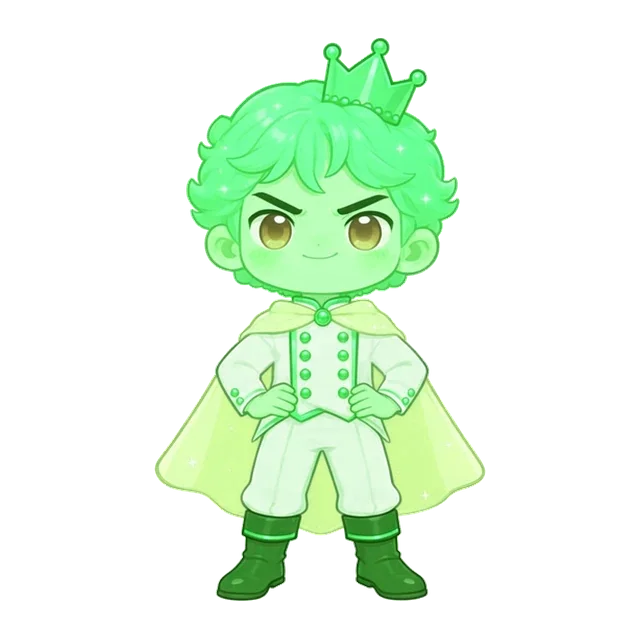
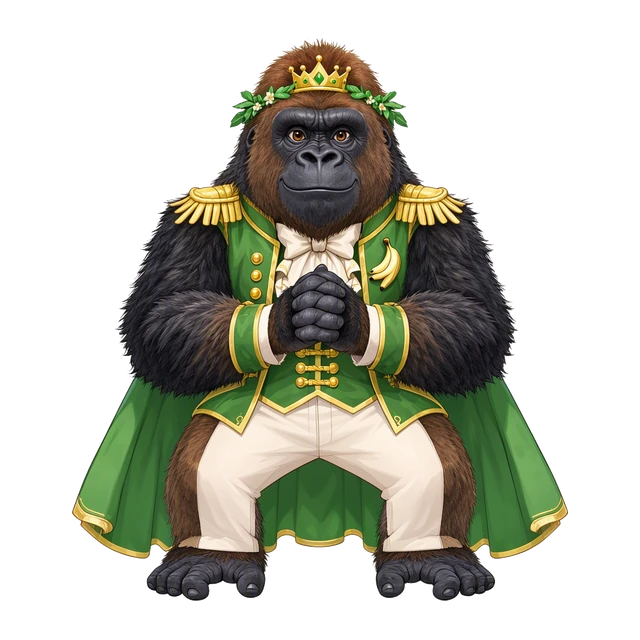
ゴリラの プリンスの 絵を 本番の 絵に さしかえ（idle/happy/oops は 同じ 1まい）

diff --git a/docs/gorilla-character.md b/docs/gorilla-character.md
@@ -18,6 +18,6 @@
 | `src/art/chars/gorilla_idle.webp` | 640×640 | ゴリラの プリンセス 立ち絵（ふつう） | **本番の 絵**（Moss-image 1まい。白い 背景を tools/art/process.py の 抜き方で 透明に） |
 | `src/art/chars/gorilla_happy.webp` | 640×640 | よろこび（にっこり、むねの 前で こぶし） | いまは idle と 同じ 絵（正解の ドラミングで 表情の ちがいを おぎなう） |
 | `src/art/chars/gorilla_oops.webp` | 640×640 | ざんねん（こまり顔、でも やさしい） | いまは idle と 同じ 絵 |
-| `src/art/chars/gorilla_{idle,happy,oops}_prince.webp` | 640×640 | ゴリラの プリンス（3表情） | レオの 絵を みどりに 色がえ |
+| `src/art/chars/gorilla_{idle,happy,oops}_prince.webp` | 640×640 | ゴリラの プリンス（3表情） | **本番の 絵**（Moss-image 1まい。3表情とも 同じ 絵。ぬき方は 姫と 同じ） |
 | `src/art/items/g_*.webp`（16こ） | 320×320 | 下の アイテム | ロゼの おなじ スロットの アイテムの コピー |
 | `src/art/items/g_*_prince.webp`（任意） | 320×320 | プリンス用の そうび | 無ければ 上の 共通の 絵 |
